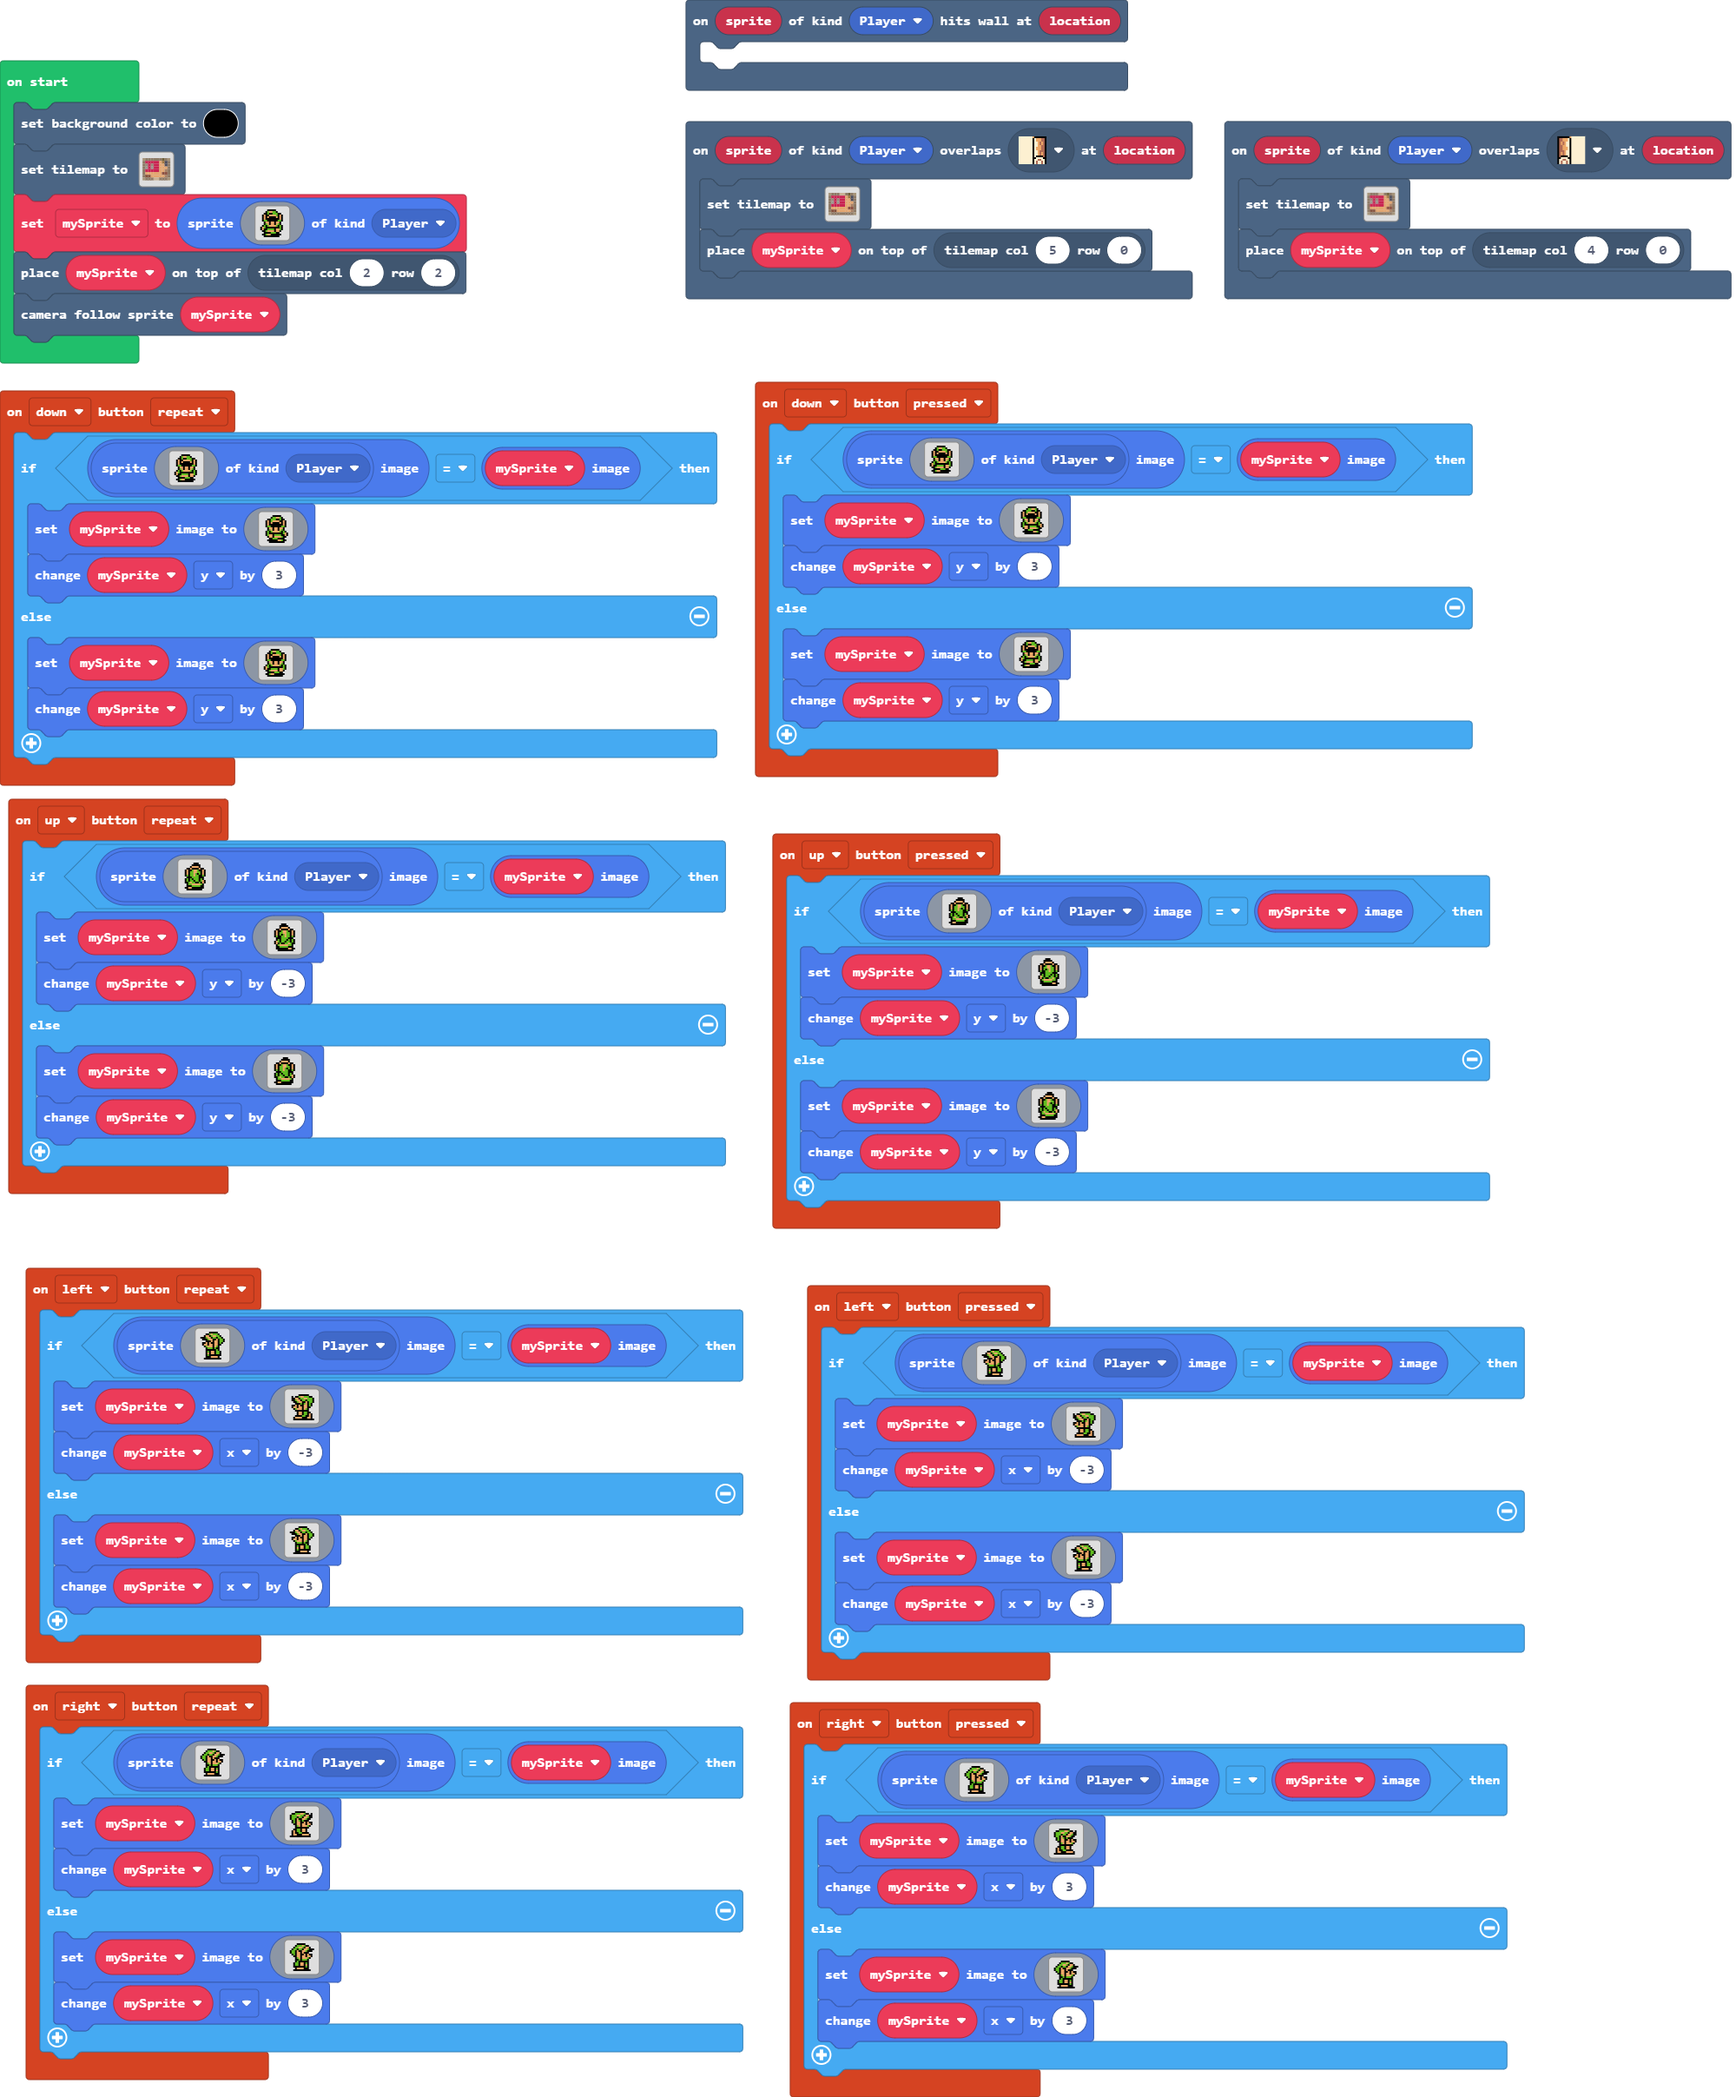
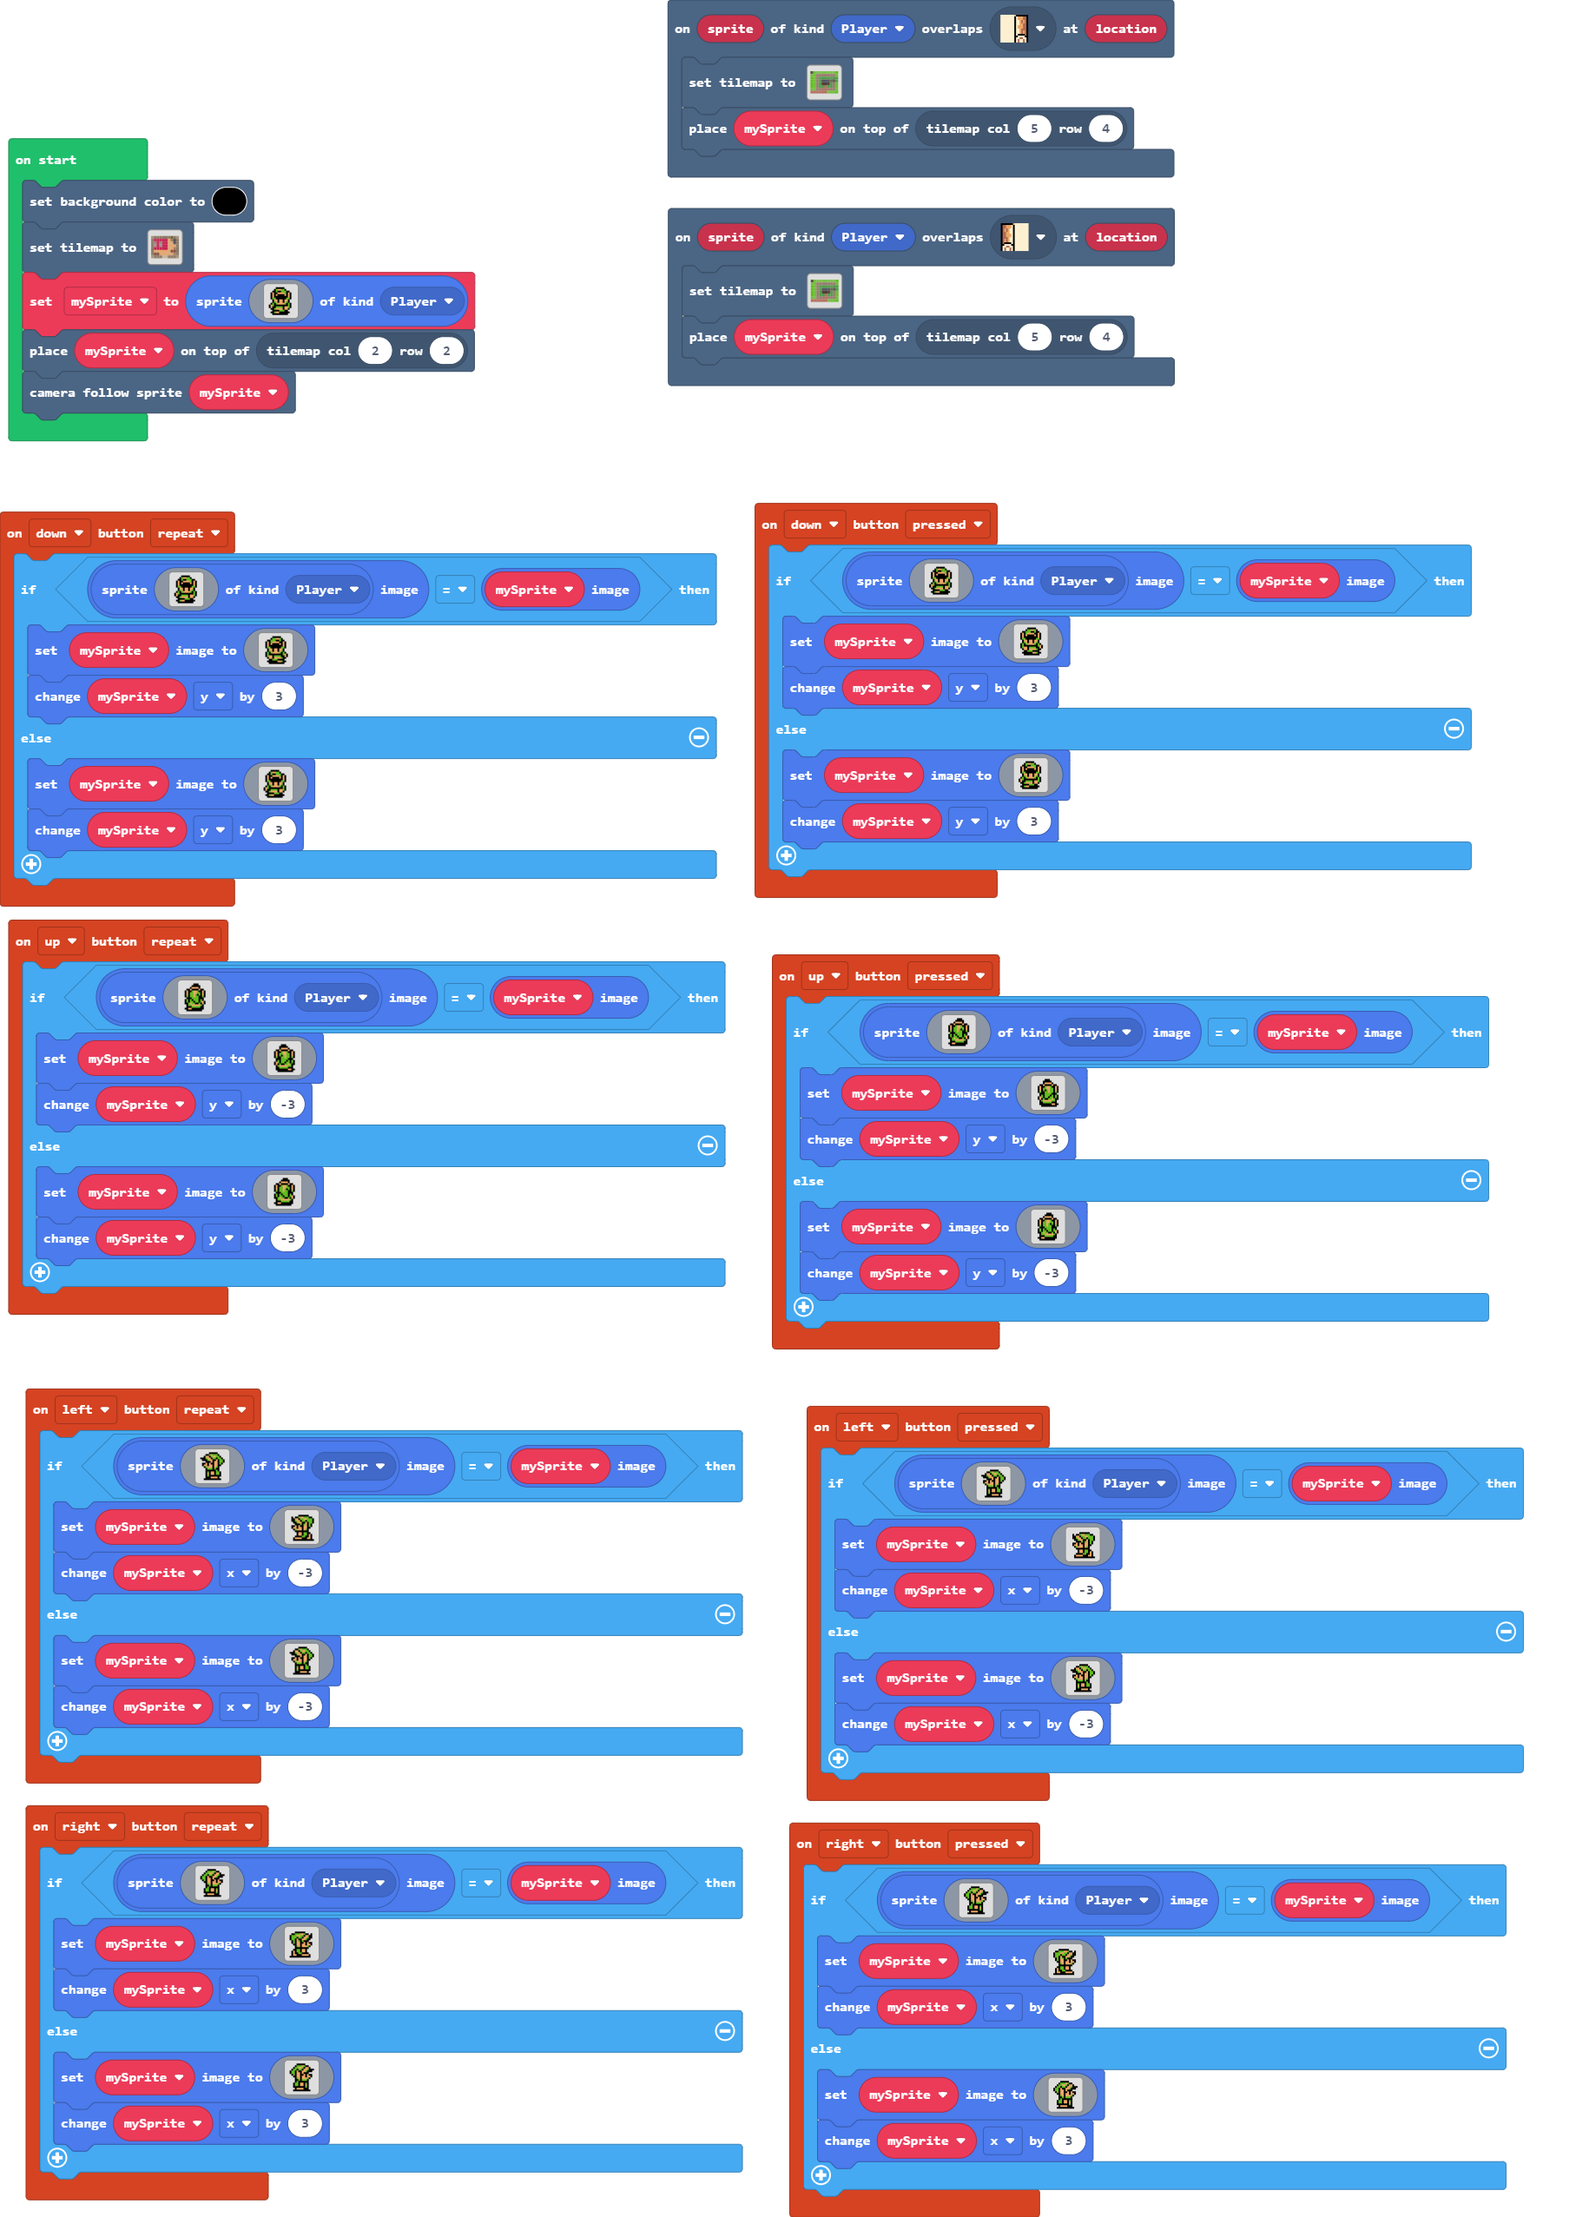
Update main.blocks, main.ts, tilemap.g.jres, tilemap.g.ts

diff --git a/tilemap.g.ts b/tilemap.g.ts
@@ -130,6 +130,46 @@ namespace myTiles {
     export const tile61 = image.ofBuffer(hex``);
     //% fixedInstance jres blockIdentity=images._tile
     export const tile64 = image.ofBuffer(hex``);
+    //% fixedInstance jres blockIdentity=images._tile
+    export const tile65 = image.ofBuffer(hex``);
+    //% fixedInstance jres blockIdentity=images._tile
+    export const tile66 = image.ofBuffer(hex``);
+    //% fixedInstance jres blockIdentity=images._tile
+    export const tile67 = image.ofBuffer(hex``);
+    //% fixedInstance jres blockIdentity=images._tile
+    export const tile68 = image.ofBuffer(hex``);
+    //% fixedInstance jres blockIdentity=images._tile
+    export const tile69 = image.ofBuffer(hex``);
+    //% fixedInstance jres blockIdentity=images._tile
+    export const tile70 = image.ofBuffer(hex``);
+    //% fixedInstance jres blockIdentity=images._tile
+    export const tile71 = image.ofBuffer(hex``);
+    //% fixedInstance jres blockIdentity=images._tile
+    export const tile72 = image.ofBuffer(hex``);
+    //% fixedInstance jres blockIdentity=images._tile
+    export const tile73 = image.ofBuffer(hex``);
+    //% fixedInstance jres blockIdentity=images._tile
+    export const tile74 = image.ofBuffer(hex``);
+    //% fixedInstance jres blockIdentity=images._tile
+    export const tile75 = image.ofBuffer(hex``);
+    //% fixedInstance jres blockIdentity=images._tile
+    export const tile76 = image.ofBuffer(hex``);
+    //% fixedInstance jres blockIdentity=images._tile
+    export const tile77 = image.ofBuffer(hex``);
+    //% fixedInstance jres blockIdentity=images._tile
+    export const tile78 = image.ofBuffer(hex``);
+    //% fixedInstance jres blockIdentity=images._tile
+    export const tile79 = image.ofBuffer(hex``);
+    //% fixedInstance jres blockIdentity=images._tile
+    export const tile80 = image.ofBuffer(hex``);
+    //% fixedInstance jres blockIdentity=images._tile
+    export const tile81 = image.ofBuffer(hex``);
+    //% fixedInstance jres blockIdentity=images._tile
+    export const tile82 = image.ofBuffer(hex``);
+    //% fixedInstance jres blockIdentity=images._tile
+    export const tile83 = image.ofBuffer(hex``);
+    //% fixedInstance jres blockIdentity=images._tile
+    export const tile84 = image.ofBuffer(hex``);
 
     helpers._registerFactory("tilemap", function(name: string) {
         switch(helpers.stringTrim(name)) {
@@ -155,6 +195,47 @@ namespace myTiles {
 2 2 2 . . . . . 2 2 
 2 2 2 2 2 2 2 2 2 2 
 `, [myTiles.transparency16,myTiles.tile2,myTiles.tile3,myTiles.tile4,myTiles.tile5,myTiles.tile12,myTiles.tile13,myTiles.tile14,myTiles.tile15,myTiles.tile16,myTiles.tile17,myTiles.tile18,myTiles.tile19,myTiles.tile21,myTiles.tile22,myTiles.tile24,myTiles.tile31,myTiles.tile30,myTiles.tile32,myTiles.tile35,myTiles.tile6,myTiles.tile7], TileScale.Sixteen);
+            case "level4":
[1 lines of base64/hex data omitted]
+2 2 2 2 . . . 2 2 2 
+. . 2 2 2 . . . . . 
+. . 2 2 2 2 . . . . 
+. . 2 . 2 . 2 . . . 
+. . . . . . . . . . 
+. . . . . . . . . . 
+. . . . . . . . . . 
+2 . . . . . . . . . 
+`, [myTiles.transparency16,myTiles.tile39,myTiles.tile40,myTiles.tile46,myTiles.tile45,myTiles.tile44,myTiles.tile43,myTiles.tile64,myTiles.tile68,myTiles.tile69,myTiles.tile71,myTiles.tile72,myTiles.tile73,myTiles.tile74,myTiles.tile76,myTiles.tile77,myTiles.tile78,myTiles.tile79,myTiles.tile80,myTiles.tile81,myTiles.tile82,myTiles.tile83,myTiles.tile84], TileScale.Sixteen);
+            case "level5":
+            case "level5":return tiles.createTilemap(hex`1000100000000000000000000000000000000000000000000000000000000000000000000000000000000000000000000000000000000000000000000000000000000000000000000000000000000000000000000000000000000000000000000000000000000000000000000000000000000000000000000000000000000000000000000000000000000000000000000000000000000000000000000000000000000000000000000000000000000000000000000000000000000000000000000000000000000000000000000000000000000000000000000000000000000000000000000000000000000000000000000000000000000000000000000000000000000000`, img`
+. . . . . . . . . . . . . . . . 
+. . . . . . . . . . . . . . . . 
+. . . . . . . . . . . . . . . . 
+. . . . . . . . . . . . . . . . 
+. . . . . . . . . . . . . . . . 
+. . . . . . . . . . . . . . . . 
+. . . . . . . . . . . . . . . . 
+. . . . . . . . . . . . . . . . 
+. . . . . . . . . . . . . . . . 
+. . . . . . . . . . . . . . . . 
+. . . . . . . . . . . . . . . . 
+. . . . . . . . . . . . . . . . 
+. . . . . . . . . . . . . . . . 
+. . . . . . . . . . . . . . . . 
+. . . . . . . . . . . . . . . . 
+. . . . . . . . . . . . . . . . 
+`, [myTiles.transparency16], TileScale.Sixteen);
+            case "level2":
[1 lines of base64/hex data omitted]
+2 . . . . . . . . . 
+. . 2 2 2 2 2 2 2 . 
+. . 2 . . . . 2 2 . 
+. . 2 . 2 2 2 2 2 . 
+. . 2 . 2 . 2 . 2 . 
+. . 2 . . . . . 2 . 
+. . 2 2 2 . 2 2 2 . 
+. . . . . . . . . . 
+`, [myTiles.transparency16,myTiles.tile64,myTiles.tile38,myTiles.tile42,myTiles.tile65,myTiles.tile66,myTiles.tile67,myTiles.tile68,myTiles.tile69,myTiles.tile41,myTiles.tile46,myTiles.tile45,myTiles.tile44,myTiles.tile43,myTiles.tile70,myTiles.tile71,myTiles.tile72,myTiles.tile73,myTiles.tile74], TileScale.Sixteen);
         }
         return null;
     })
@@ -290,6 +371,46 @@ namespace myTiles {
             case "tile61":return tile61;
             case "myTile57":
             case "tile64":return tile64;
+            case "myTile58":
+            case "tile65":return tile65;
+            case "myTile59":
+            case "tile66":return tile66;
+            case "myTile60":
+            case "tile67":return tile67;
+            case "myTile61":
+            case "tile68":return tile68;
+            case "myTile62":
+            case "tile69":return tile69;
+            case "myTile63":
+            case "tile70":return tile70;
+            case "myTile64":
+            case "tile71":return tile71;
+            case "myTile65":
+            case "tile72":return tile72;
+            case "myTile66":
+            case "tile73":return tile73;
+            case "myTile67":
+            case "tile74":return tile74;
+            case "myTile68":
+            case "tile75":return tile75;
+            case "myTile69":
+            case "tile76":return tile76;
+            case "myTile70":
+            case "tile77":return tile77;
+            case "myTile71":
+            case "tile78":return tile78;
+            case "myTile72":
+            case "tile79":return tile79;
+            case "myTile73":
+            case "tile80":return tile80;
+            case "myTile74":
+            case "tile81":return tile81;
+            case "myTile75":
+            case "tile82":return tile82;
+            case "myTile76":
+            case "tile83":return tile83;
+            case "myTile77":
+            case "tile84":return tile84;
         }
         return null;
     })

diff --git a/main.ts b/main.ts
@@ -1,6 +1,3 @@
-scene.onHitWall(SpriteKind.Player, function (sprite, location) {
-	
-})
 controller.up.onEvent(ControllerButtonEvent.Pressed, function () {
     if (sprites.create(assets.tile`myTile55`, SpriteKind.Player).image == mySprite.image) {
         mySprite.setImage(assets.tile`myTile50`)
@@ -38,8 +35,8 @@ controller.left.onEvent(ControllerButtonEvent.Pressed, function () {
     }
 })
 scene.onOverlapTile(SpriteKind.Player, assets.tile`myTile29`, function (sprite, location) {
-    tiles.setTilemap(tilemap`level3`)
-    tiles.placeOnTile(mySprite, tiles.getTileLocation(5, 0))
+    tiles.setTilemap(tilemap`level2`)
+    tiles.placeOnTile(mySprite, tiles.getTileLocation(5, 4))
 })
 controller.right.onEvent(ControllerButtonEvent.Pressed, function () {
     if (sprites.create(assets.tile`myTile53`, SpriteKind.Player).image == mySprite.image) {
@@ -69,8 +66,8 @@ controller.down.onEvent(ControllerButtonEvent.Pressed, function () {
     }
 })
 scene.onOverlapTile(SpriteKind.Player, assets.tile`myTile30`, function (sprite, location) {
-    tiles.setTilemap(tilemap`level3`)
-    tiles.placeOnTile(mySprite, tiles.getTileLocation(4, 0))
+    tiles.setTilemap(tilemap`level2`)
+    tiles.placeOnTile(mySprite, tiles.getTileLocation(5, 4))
 })
 controller.left.onEvent(ControllerButtonEvent.Repeated, function () {
     if (sprites.create(assets.tile`myTile51`, SpriteKind.Player).image == mySprite.image) {
